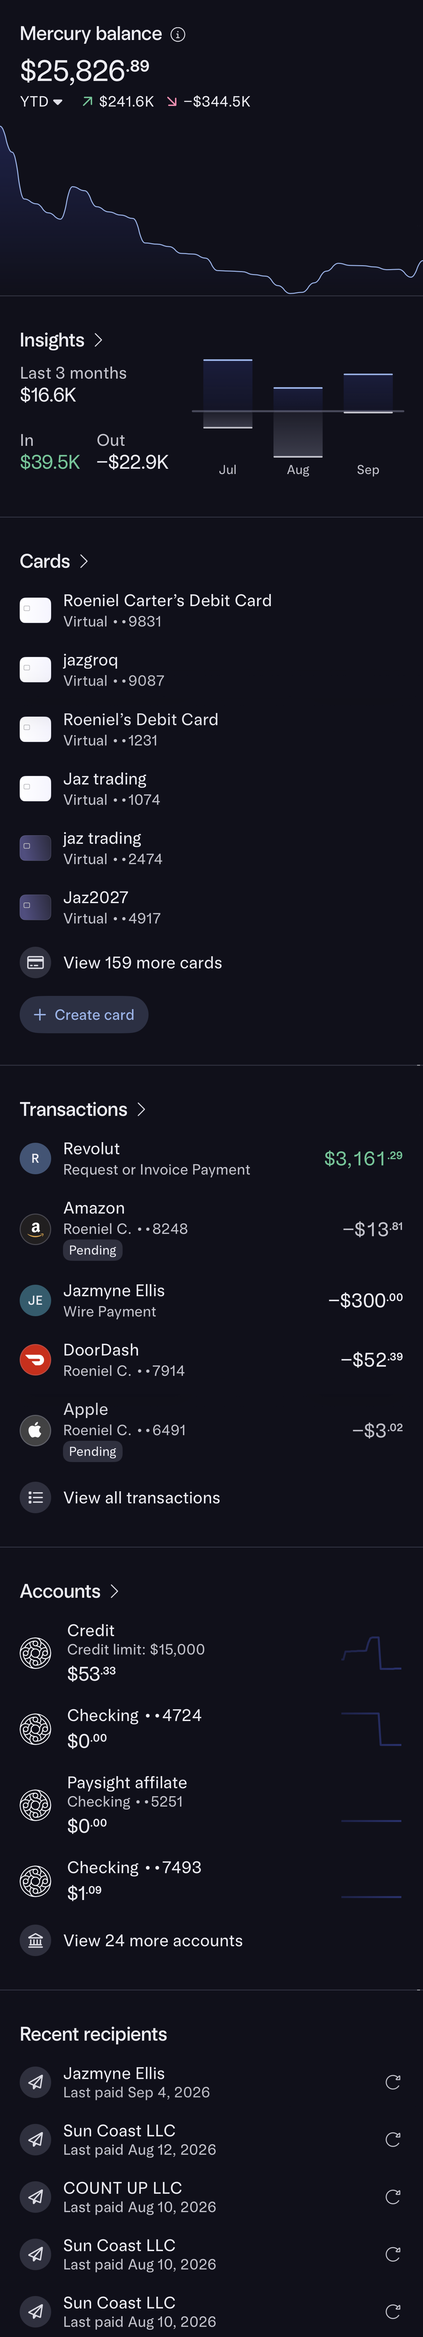
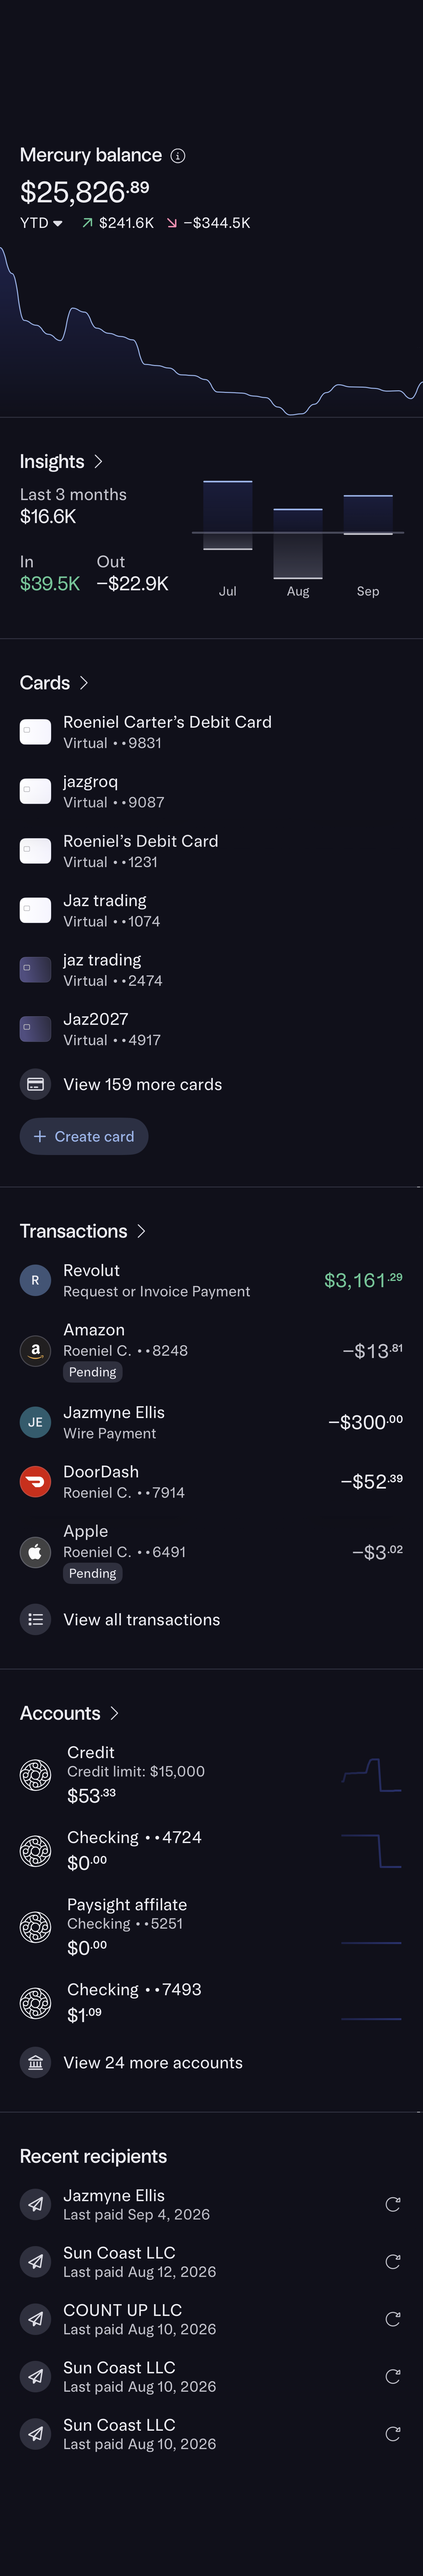
Home: see-through chrome - glass pills/tab bar over full-height scroller, scroll-edge dims (v3)

diff --git a/index.html b/index.html
@@ -8,10 +8,10 @@
 <meta name="mobile-web-app-capable" content="yes">
 <meta name="apple-mobile-web-app-status-bar-style" content="black-translucent">
 <meta name="theme-color" content="#10101a">
-<link rel="manifest" href="manifest.json?v=2">
-<link rel="apple-touch-icon" href="icon.png?v=2">
-<link rel="apple-touch-startup-image" media="screen and (device-width: 430px) and (device-height: 932px) and (-webkit-device-pixel-ratio: 3) and (orientation: portrait)" href="launch_1290x2796.png?v=2">
-<link rel="apple-touch-startup-image" media="screen and (device-width: 393px) and (device-height: 852px) and (-webkit-device-pixel-ratio: 3) and (orientation: portrait)" href="launch_1179x2556.png?v=2">
+<link rel="manifest" href="manifest.json?v=3">
+<link rel="apple-touch-icon" href="icon.png?v=3">
+<link rel="apple-touch-startup-image" media="screen and (device-width: 430px) and (device-height: 932px) and (-webkit-device-pixel-ratio: 3) and (orientation: portrait)" href="launch_1290x2796.png?v=3">
+<link rel="apple-touch-startup-image" media="screen and (device-width: 393px) and (device-height: 852px) and (-webkit-device-pixel-ratio: 3) and (orientation: portrait)" href="launch_1179x2556.png?v=3">
 <title>Mercury</title>
 <script>
 if('serviceWorker' in navigator){
@@ -38,16 +38,38 @@ if('serviceWorker' in navigator){
   .sheet > img{display:block;width:100%;height:auto;position:relative;z-index:1;}
   .hot{position:absolute;background:transparent;z-index:5;}
 
-  /* Home: pinned header (org pill + icons) and pinned tab bar; only the body
-     scrolls. Inner scroller, not CSS sticky (sticky is a no-op under #app
-     overflow-x:hidden on iOS). Header PNG already carries the 177 px
-     status-bar paint - no extra safe-area padding here. */
-  #s-home.active, #s-home.animating{display:flex;flex-direction:column;height:100dvh;overflow:hidden;}
-  #homeHeader, #homeFooter{flex:0 0 auto;position:relative;z-index:10;background:#10101a;}
-  #homeHeader img, #homeFooter img, #homeContent img{display:block;width:100%;}
-  #homeScroller{flex:1 1 auto;min-height:0;overflow-x:hidden;overflow-y:auto;
+  /* Home: the body scrolls full-height under floating chrome, like the real app.
+     The org pill, the icon pill and the tab bar are glass capsules
+     (backdrop blur + dark tint) with their glyphs as alpha PNGs on top.
+     Body PNG carries the 177 px status-bar paint at scroll 0; nothing else
+     is opaque, so content passes under the clock, the pills and the bar. */
+  #s-home.active, #s-home.animating{display:block;position:relative;height:100dvh;overflow:hidden;}
+  #homeScroller{position:absolute;inset:0;overflow-x:hidden;overflow-y:auto;
                 -webkit-overflow-scrolling:touch;overscroll-behavior:contain;background:#10101a;}
   #homeContent{position:relative;width:100%;background:#10101a;}
+  #homeContent img{display:block;width:100%;}
+  /* scroll-edge dims, measured on IMG_1510/1511 tops and folder (23) crop (see CROP.md):
+     top: .87 under the clock, .78 at the pill row (177 px), gone by 340 px.
+     bottom: 0 at 92 px above the bar (2455), .85 from the bar's bottom edge (2733) down. */
+  #homeTopFade,#homeBotFade{position:absolute;left:0;width:100%;z-index:6;pointer-events:none;}
+  #homeTopFade{top:0;height:26.357vw;
+               background:linear-gradient(rgba(16,16,26,.87) 0%,rgba(16,16,26,.78) 52%,rgba(16,16,26,0) 100%);}
+  #homeBotFade{bottom:0;height:26.434vw;
+               background:linear-gradient(rgba(16,16,26,0) 0%,rgba(16,16,26,.85) 81.5%,rgba(16,16,26,.85) 100%);}
+  /* glass: capsule fill reads (30,30,43) over the page bg (16,16,26) -> rgba(33.5,33.5,47.3,.8).
+     alpha/blur fitted against IMG_1509 (bar over the Debit Card row) and folder (23)
+     FullSizeRender-1.jpeg (bar over the Apple row) */
+  #s-home{--gfill:rgba(33.5,33.5,47.3,.8);--gblur:3px;}
+  .glass{position:absolute;border-radius:50vw;background:var(--gfill);
+         -webkit-backdrop-filter:blur(var(--gblur));backdrop-filter:blur(var(--gblur));
+         z-index:7;pointer-events:none;}
+  .glyph{position:absolute;z-index:8;pointer-events:none;-webkit-user-drag:none;}
+  /* geometry = bounding boxes measured on the 1290-wide originals (see screens/CROP.md) */
+  #gL,#yL{left:4.651vw;top:13.721vw;width:40.31vw;height:10.233vw;}
+  #gR,#yR{left:73.023vw;top:13.721vw;width:22.326vw;height:10.233vw;}
+  #gB,#yB{left:4.884vw;bottom:4.884vw;width:90.233vw;height:14.419vw;}
+  /* fallback: add class "noglass" to #s-home for opaque capsules (no blur) */
+  #s-home.noglass .glass{-webkit-backdrop-filter:none;backdrop-filter:none;background:#1e1e2b;}
 </style>
 </head>
 <body style="background:#000">
@@ -55,21 +77,18 @@ if('serviceWorker' in navigator){
   <div id="stage">
 
     <div class="screen active" id="s-home">
-      <div id="homeHeader">
-        <img src="screens/home_header.png?v=2">
-        <!-- org pill / terminal / profile: inert until destination shots exist -->
-      </div>
       <div id="homeScroller">
         <div id="homeContent">
-          <img src="screens/home_body.png?v=2">
+          <img src="screens/home_body.png?v=3">
           <!-- Insights >, Cards >, Transactions >, Accounts > rows: inert until
                destination shots exist. Row positions in screens/CROP.md -->
         </div>
       </div>
-      <div id="homeFooter">
-        <img src="screens/home_footer.png?v=2">
-        <!-- tab bar: Home is this screen; other tabs inert -->
-      </div>
+      <div id="homeTopFade"></div><div id="homeBotFade"></div>
+      <!-- floating chrome: org pill / icon pill / tab bar. Inert until destination shots exist. -->
+      <div class="glass" id="gL"></div><img class="glyph" id="yL" src="screens/pill_left.png?v=3" alt="">
+      <div class="glass" id="gR"></div><img class="glyph" id="yR" src="screens/pill_right.png?v=3" alt="">
+      <div class="glass" id="gB"></div><img class="glyph" id="yB" src="screens/tabbar.png?v=3" alt="">
     </div>
 
   </div>
@@ -80,7 +99,7 @@ if('serviceWorker' in navigator){
     document.body.style.background = '#10101a';
   });
 
-  const ASSET_V = '?v=2';
+  const ASSET_V = '?v=3';
   const el = id => document.getElementById(id);
   let current = 's-home';
   let navBusy = false;

diff --git a/sw.js b/sw.js
@@ -1,5 +1,5 @@
 // Stale-while-revalidate. Bump CACHE on every image change (same number as ?v=).
-const CACHE = 'mercury-v2';
+const CACHE = 'mercury-v3';
 
 self.addEventListener('install', () => self.skipWaiting());
 

diff --git a/screens/CROP.md b/screens/CROP.md
@@ -11,40 +11,60 @@ Isolated from `ig-prop-site`. Own repo, own URL. Do not copy files back into the
 - Paint out the iOS scroll indicator (grey `(95,95,102)`, x ≈ 1273–1282) before stitching, otherwise it repeats down the page. Rule used: grey pixel in x 1262–1290 whose 28 px to the left are all bg.
 - After any image swap: bump `?v=` everywhere in `index.html` + `manifest.json` **and** `CACHE` in `sw.js` (same number). Reopen the home-screen icon.
 
-## Home (`#s-home`) — current: `v2`, folder `(22)`
+## Home (`#s-home`) — current: `v3`, folder `(22)` + glass chrome
 
 Source folder `(22)` `iCloud Photos from Roeniel Carter\IMG_1509…1512.PNG`. Filename order = scroll order. All 1290×2796.
 
-In the real app the org-pill row and the floating tab bar are pinned (translucent blur over content). Built as a `100dvh` flex column: `#homeHeader` (pinned) + `#homeScroller` (scrolls) + `#homeFooter` (pinned). Header/footer are solid bg instead of blur — accepted.
+### How the real app behaves (folder (23) crops + folder (24) recording)
 
-Row pitch in lists is **181 px**. Shot-to-shot offsets (rows in shot A minus rows in shot B): 1509→1510 = **2162**, 1510→1511 = **2138**, 1511→1512 = **759** (1511→1512 matched pixel-exact; the other two came from list row pitch because the overlap rows sit behind the blurred header/tab bar).
+Nothing at the top or bottom is opaque. The whole page scrolls under the clock, under the two pills and under the tab bar. Only the three capsules are glass (blur + dark tint + faint edge ring). Two soft "scroll-edge" dims sit under the chrome:
 
-1. `home_header.png` (1290×370) = `IMG_1509` `y 0 … 370`, top 177 px painted. Pills at y 177–308; "Mercury balance" starts at 449, so 370 is empty.
-2. `home_body.png` (1290×7129), pieces:
-   - `IMG_1509` `y 370 … 2500` (balance, graph, Insights, Cards: Roeniel Carter's Debit Card, jazgroq) → body 0–2130
-   - `IMG_1510` `y 338 … 2460` (Roeniel's Debit Card, Jaz trading, jaz trading, Jaz2027, View 159 more cards, Create card, Transactions: Revolut, Amazon, Jazmyne Ellis, DoorDash) → body 2130–4252
-   - `IMG_1511` `y 322 … 2500` (Apple, View all transactions, Accounts ×4, View 24 more accounts, Recent recipients: Jazmyne Ellis) → body 4252–6430
-   - `IMG_1512` `y 1741 … 2440` (Sun Coast, COUNT UP, Sun Coast, Sun Coast) → body 6430–7129
-   - Later shots start below their own pinned pills (≥ 309) so no chrome is duplicated.
-3. `home_footer.png` (1290×356) = `IMG_1512` `y 2440 … 2796` (empty pad + tab bar). Body ends exactly where the footer piece begins, so the bottom of the scroll reproduces `IMG_1512`.
-4. Launch images = header + body top + footer composed to 1290×2796 (`launch_1290x2796.png`, scaled copy `launch_1179x2556.png`).
+- Top: content under the status bar is dimmed to ~14 % (wash alpha .86–.87) at y 0–50, ~22 % (alpha .78) at y 60–177, back to 100 % by y ≈ 340. Not blurred — "Debit Card" text stays crisp under the clock (`IMG_1510` top). Content at the pill row (177–309) between the pills is full brightness.
+- Bottom: wash alpha ramps from 0 at y ≈ 2455 (92 px above the bar) to ~.25 at the bar top (2547) and is ~.85 flat below the bar (2733–2796). Measured on `FullSizeRender-1.jpeg`: "Pending"/"Jaz trading" under the bar read at ~15 %.
+- Capsule fill over empty bg reads exactly `(30,30,43)`; edge ring 3 px lighter `(65,65,97)→(46,46,67)`; home highlight `(63,63,77)`.
 
-### Body landmarks (rows of `home_body.png`, 1290 wide)
+### Layout (`index.html`)
 
-- Insights `>` heading 1014–1068 · bar chart ends 1453
-- Cards `>` heading 1689–1732 · card rows start 1812, pitch 181 (6 rows) · View 159 more cards 2888 · Create card 3038–3151
-- Transactions `>` heading 3361–3404 · Revolut 3484 · Amazon 3666 · Jazmyne Ellis 3917 · DoorDash 4098 · Apple 4279 · View all transactions 4520–4615
-- Accounts `>` heading 4831–4874 · Credit 4954 · Checking 4724 5213 · Paysight 5418 · Checking 7493 5677 · View 24 more accounts 5871–5966
-- Recent recipients heading 6182–6236 · rows 6304, 6479, 6654, 6829, 7004 (each ~103 tall, pitch 175)
+`#s-home` is `100dvh; position:relative; overflow:hidden`. `#homeScroller` is `position:absolute; inset:0` and scrolls the single body PNG. On top (siblings, not inside the scroller): `#homeTopFade`, `#homeBotFade` (gradients above), then three `.glass` capsules (`border-radius:50vw; background:var(--gfill); backdrop-filter:blur(var(--gblur))`) each paired with a `.glyph` alpha PNG at the same box. Geometry in `vw` = px/1290·100:
 
-Header hotspots (percents of 1290×370): org pill left 3% top 48% 42%×36%; terminal left 72%; profile left 85% (12%×36% each).
-Footer tab bar cells (percents of 1290×356): y 30%–82%; Home 6–26%, list 26–45%, transfer 45–63%, bank 63–81%, cards 81–95%.
+| element | src bbox (px, 1290 frame) | css |
+|---|---|---|
+| left pill `#gL/#yL` | `IMG_1509` x 60–580, y 177–309 (520×132) | left 4.651vw top 13.721vw w 40.31vw h 10.233vw |
+| right pill `#gR/#yR` | `IMG_1509` x 942–1230, y 177–309 (288×132) | left 73.023vw top 13.721vw w 22.326vw h 10.233vw |
+| tab bar `#gB/#yB` | `IMG_1512` x 63–1227, y 2547–2733 (1164×186) | left 4.884vw bottom 4.884vw w 90.233vw h 14.419vw |
 
-All hotspots are inert until destination shots exist.
+Glass: `--gfill: rgba(33.5,33.5,47.3,.8)` (so fill over bg = (30,30,43)), `--gblur: 3px` (CSS px; ×3 device). Fitted against `IMG_1509` (bar over the Debit Card row) and folder (23) `FullSizeRender-1.jpeg` (bar over the Apple row). Adding class `noglass` to `#s-home` gives opaque `#1e1e2b` capsules with no blur.
+
+### Assets
+
+1. `home_body.png` (1290×**7855**) = 370 rows flat bg (status band + pill row zone, pills removed) + the stitched content below + 356 rows flat bg (tab bar zone). Scroll range 5059 px = 1686 pt. Pieces of the stitched middle (body rows are +370 from the numbers here):
+   - `IMG_1509` `y 370 … 2500` (balance, graph, Insights, Cards: Roeniel Carter's Debit Card, jazgroq) → 0–2130
+   - `IMG_1510` `y 338 … 2460` (Roeniel's Debit Card, Jaz trading, jaz trading, Jaz2027, View 159 more cards, Create card, Transactions: Revolut, Amazon, Jazmyne Ellis, DoorDash) → 2130–4252
+   - `IMG_1511` `y 322 … 2500` (Apple, View all transactions, Accounts ×4, View 24 more accounts, Recent recipients: Jazmyne Ellis) → 4252–6430
+   - `IMG_1512` `y 1741 … 2440` (Sun Coast, COUNT UP, Sun Coast, Sun Coast) → 6430–7129
+   - Later shots start below their own pinned pills (≥ 309) so no chrome is duplicated. Scroll indicator painted out first.
+   - Row pitch in lists is **181 px**. Shot-to-shot offsets: 1509→1510 = **2162**, 1510→1511 = **2138**, 1511→1512 = **759**.
+2. `pill_left.png`, `pill_right.png`, `tabbar.png` — RGBA glyph layers cut at the bboxes above. Made by un-blending each pixel against the flat fill `(30,30,43)` with minimum alpha: `a = max_c (P−F)/(255−F)`, `C = F + (P−F)/a`. Pixels equal to the fill or darker (bg outside the capsule) go fully transparent, so the CSS capsule supplies fill, blur and the anti-aliased edge; the PNG supplies text, icons, the N badge, the edge ring and the home highlight.
+3. Launch images = `IMG_1509` with top 177 px painted and the scroll indicator cleared (`launch_1290x2796.png`, scaled copy `launch_1179x2556.png`) — identical to the scroll-0 frame.
+
+### Body landmarks (rows of `home_body.png` v3; subtract 370 for the v2 numbers)
+
+- Insights `>` heading 1384–1438 · bar chart ends 1823
+- Cards `>` heading 2059–2102 · card rows start 2182, pitch 181 (6 rows) · View 159 more cards 3258 · Create card 3408–3521
+- Transactions `>` heading 3731–3774 · Revolut 3854 · Amazon 4036 · Jazmyne Ellis 4287 · DoorDash 4468 · Apple 4649 · View all transactions 4890–4985
+- Accounts `>` heading 5201–5244 · Credit 5324 · Checking 4724 5583 · Paysight 5788 · Checking 7493 6047 · View 24 more accounts 6241–6336
+- Recent recipients heading 6552–6606 · rows 6674, 6849, 7024, 7199, 7374 (each ~103 tall, pitch 175)
+
+Hotspots: put them on the `.glyph` boxes (org pill = `#yL`, terminal = left half of `#yR`, profile = right half; tab cells across `#yB` at Home 0–24 %, list 24–43 %, transfer 43–61 %, bank 61–80 %, cards 80–100 %). All inert until destination shots exist.
+
+### Verifying
+
+Chrome DevTools MCP, viewport `430x932x3,mobile`. Scroll `#homeScroller` to 0 → frame equals `IMG_1509` (mean diff 0.4/255). ScrollTop 678.3 (2035 device px) puts the bar over the Apple row like `FullSizeRender-1.jpeg`; 720.7 / 1433.3 reproduce `IMG_1510` / `IMG_1511` tops. The Cursor embedded browser's CDP `captureScreenshot` returns garbage frames under emulation — use the Chrome one.
 
 ## History
 
 - `v1` folder `(21)` `IMG_1507.PNG`: single full-frame shot ("Welcome, Roeniel" variant), top 177 px painted. Replaced by the folder (22) stitch.
+- `v2` folder `(22)`: stitched body with opaque `home_header.png` (1290×370) / `home_footer.png` (1290×356) pinned around the scroller. Replaced by v3 because the real chrome is see-through.
 
 ## PWA
 
